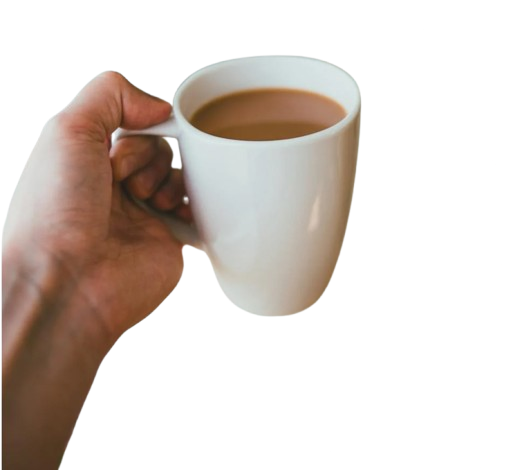
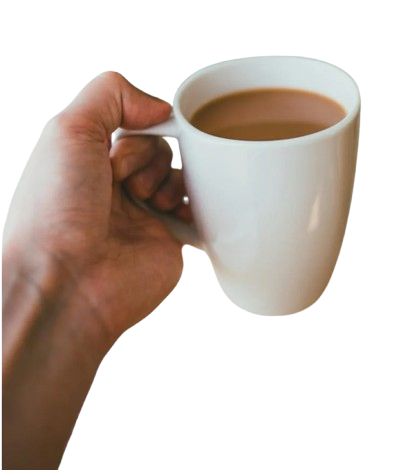
chaii added

diff --git a/css/sutta.css b/css/sutta.css
@@ -2,7 +2,7 @@
     /* border: 2px solid black; */
     flex: 50%;
     display: flex;
-    
+    height: 100%;
     align-items: flex-end;
     justify-content: flex-end;
     /* transform: rotateY(180deg); 
@@ -15,9 +15,9 @@
     display: flex;
     flex-direction: column;
     align-items: center;
-    justify-content: center;
+    /* justify-content: center; */
     height: fit-content;
-    width: 500px;
+    width: max-content;
     /* border: 2px solid green; */
     /* background-color: rgb(76, 171, 254); */
     /* align-items: bottom; */
@@ -29,7 +29,7 @@
     display: flex;
     z-index: 1;
     top: 92px;
-    right: 25%;
+    right: 200px;
     padding: 0 20px;
     height: 120px;
     /* width: 50px; */
@@ -105,7 +105,7 @@
     height: 400px;
     width: 400px;
     position: relative;
-    left: 10%;
+    /* left: 10%; */
     /* bottom: -150px;
     right: 50px; */
 }

diff --git a/index.html b/index.html
@@ -13,9 +13,8 @@
             box-sizing: border-box;
         }
         body{
-        
-            width: 100vw;
-            height: 100%;
+            background-color: grey;
+            
             display: block;
         }
         #sec1{
@@ -30,11 +29,12 @@
             font-size:40px;
         }
         #sec2{
+            
            display: flex;
            /* border: 2px solid black; */
            flex-direction: row;
            flex-wrap: wrap;
-           height: 82vh;
+           height: 81.5vh;
         }
         @media screen and (max-width: 441px){
             .chai{
@@ -43,9 +43,9 @@
             .sutta{
                 flex: 100%;
             }
-            #sec1{
+            /* #sec1{
                 width: 120vw;
-            }
+            } */
         }
 
 

diff --git a/css/chai.css b/css/chai.css
@@ -2,11 +2,12 @@
     display: flex;
     background-color: rgb(150, 203, 250);
     flex: 50%;
+    height: 100%;
     align-items: flex-end;
 }
 #chai_container{
     flex-direction: column;
-    width: 100%;
+    width: max-content;
     display: flex;
     /* border: 2px solid black; */
 }
@@ -36,7 +37,7 @@
 }
 .chai_image{
     height: 400px;
-    width: 500px;
+    width: 400px;
     /* border: 2px solid green; */
 }
 @keyframes chai_vap {
